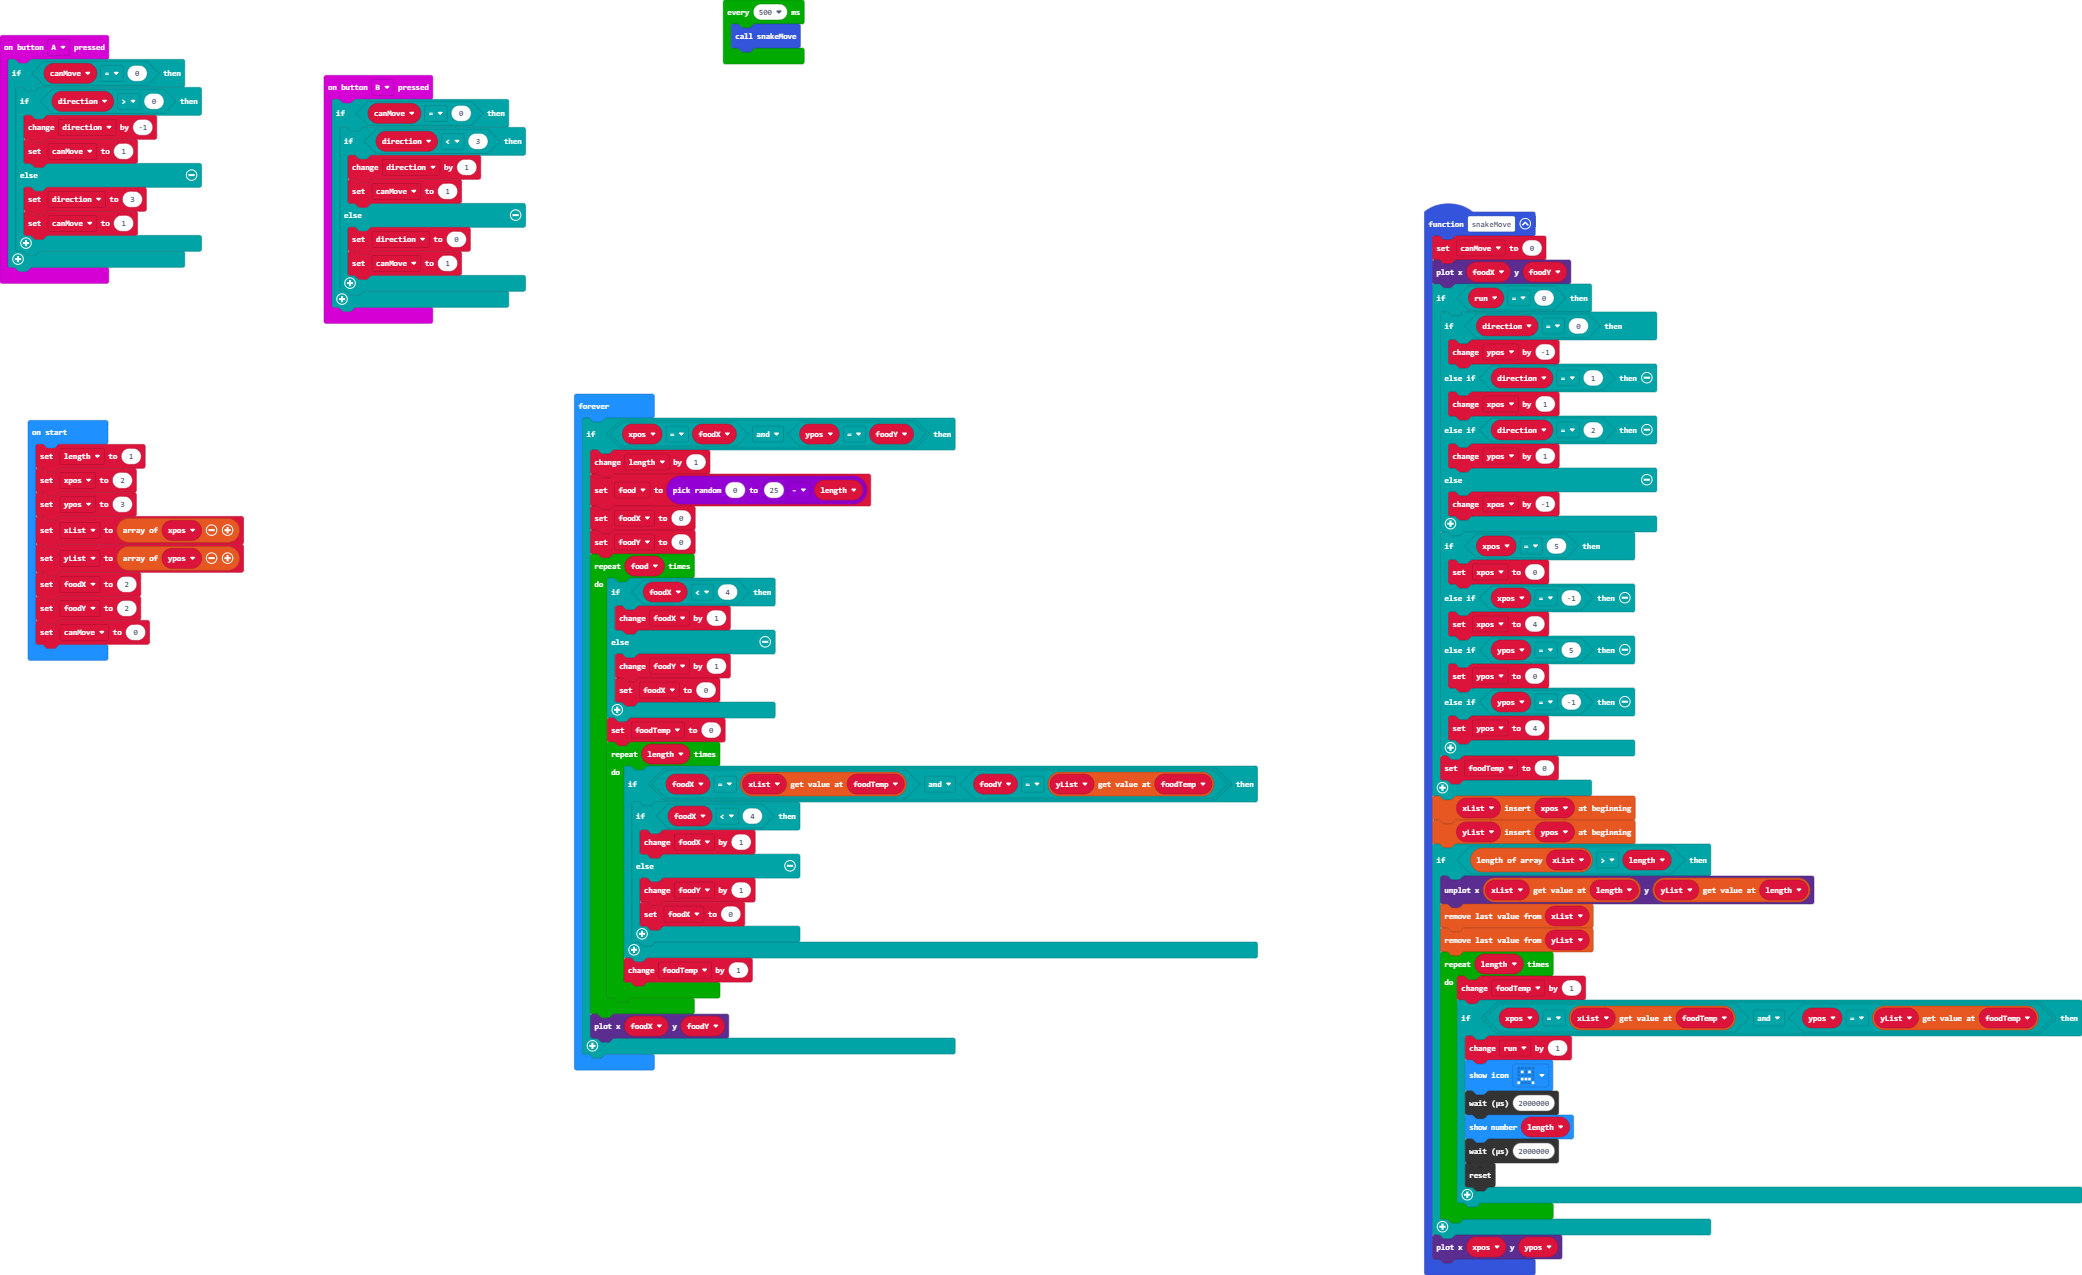
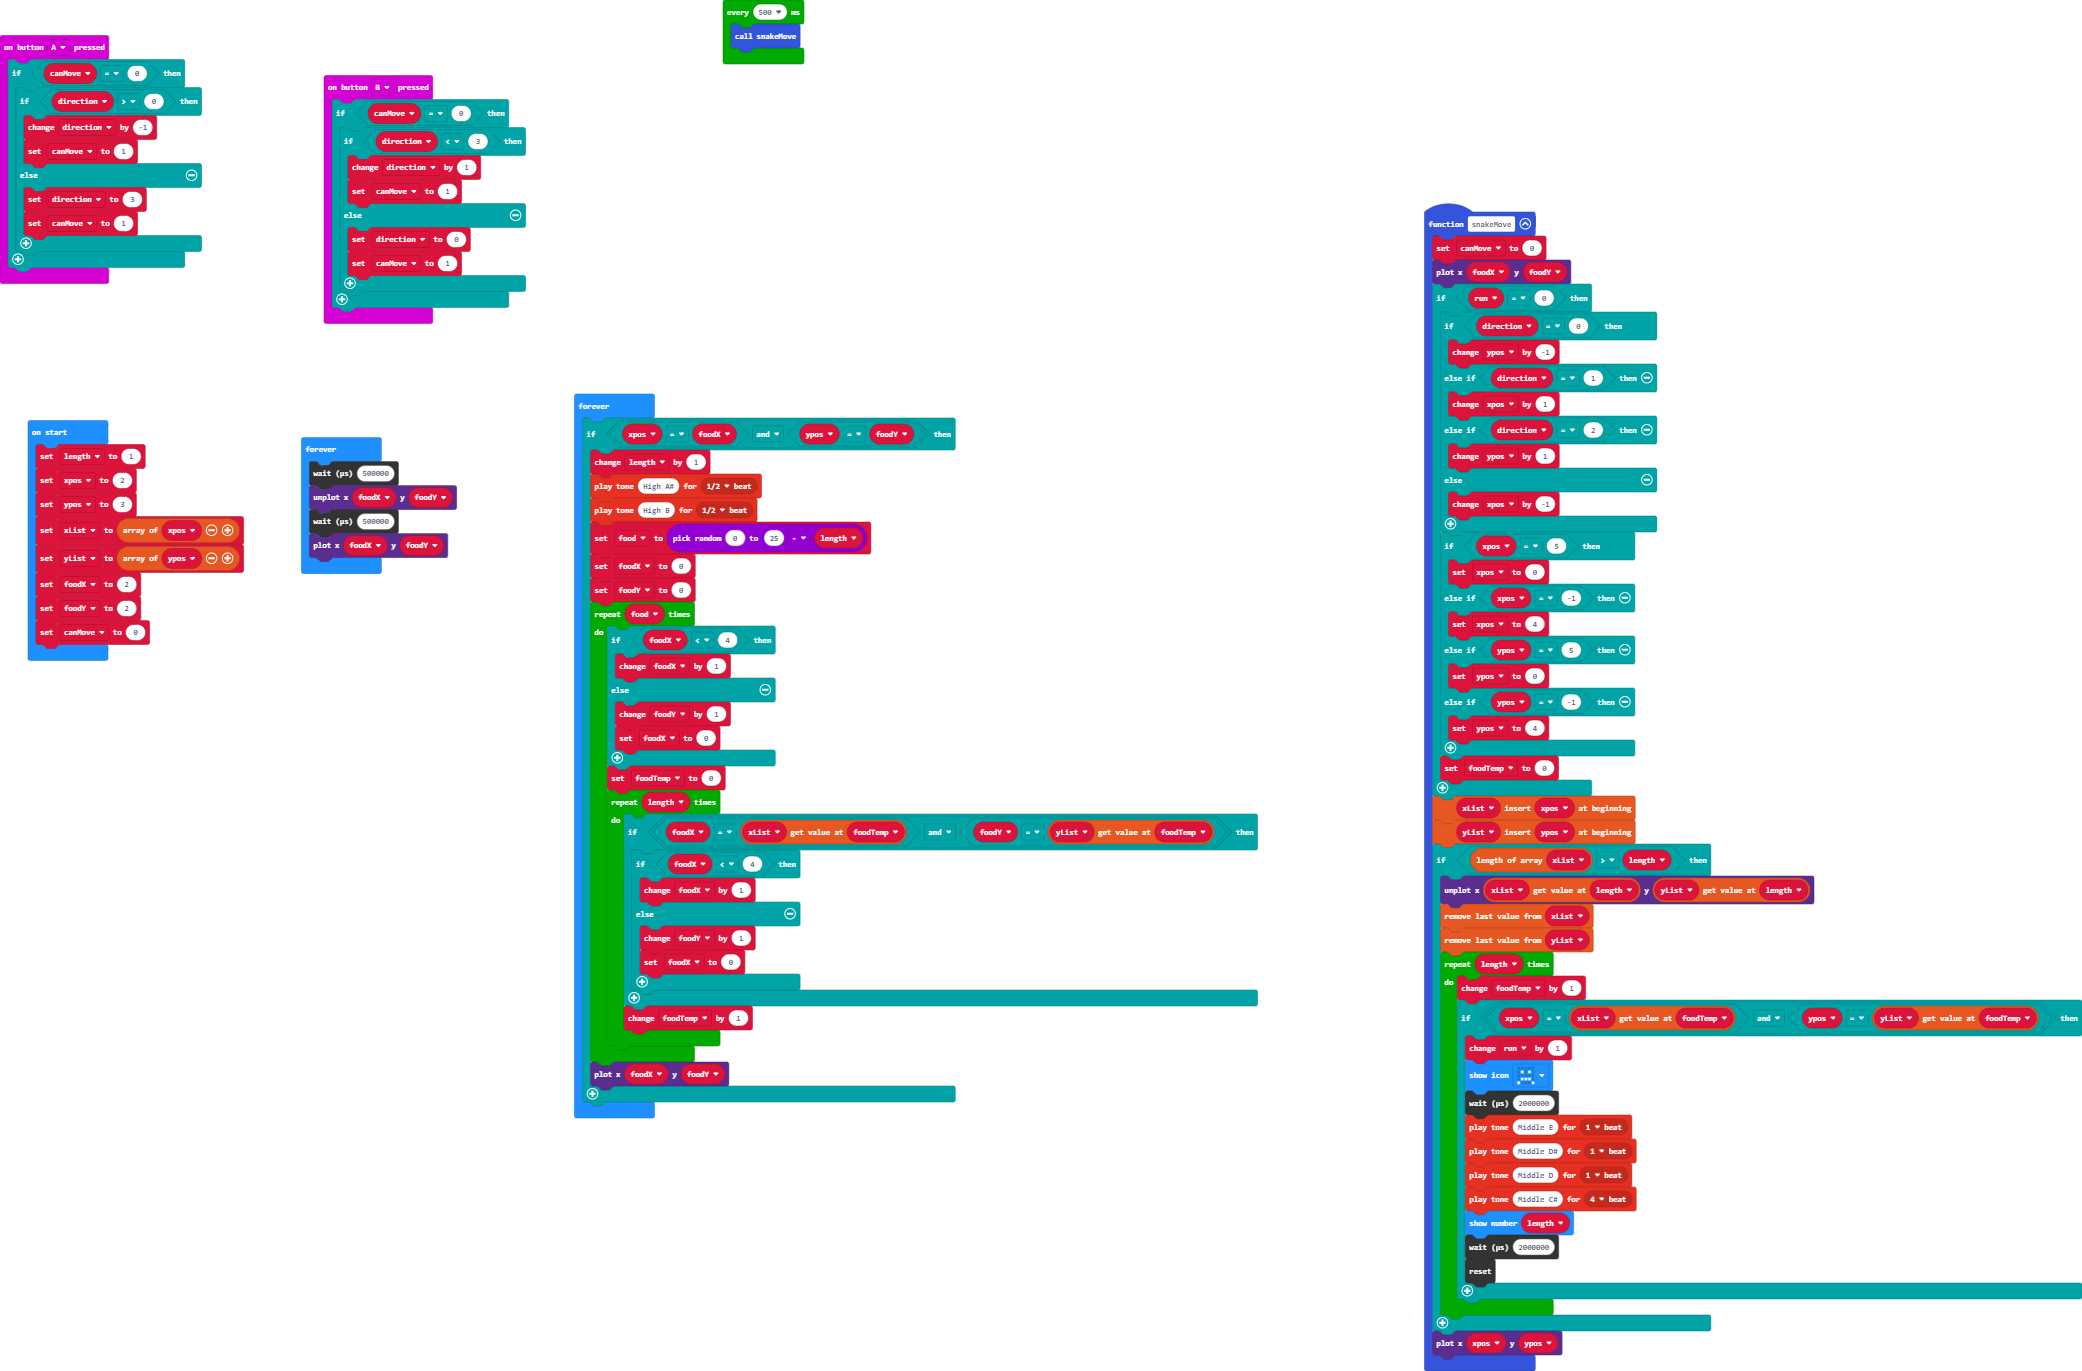
Update main.blocks, main.ts

diff --git a/main.ts b/main.ts
@@ -56,6 +56,10 @@ function snakeMove () {
                 run += 1
                 basic.showIcon(IconNames.Sad)
                 control.waitMicros(2000000)
+                music.playTone(330, music.beat(BeatFraction.Whole))
+                music.playTone(311, music.beat(BeatFraction.Whole))
+                music.playTone(294, music.beat(BeatFraction.Whole))
+                music.playTone(277, music.beat(BeatFraction.Breve))
                 basic.showNumber(length)
                 control.waitMicros(2000000)
                 control.reset()
@@ -90,6 +94,8 @@ loops.everyInterval(500, function () {
 basic.forever(function () {
     if (xpos == foodX && ypos == foodY) {
         length += 1
+        music.playTone(932, music.beat(BeatFraction.Half))
+        music.playTone(988, music.beat(BeatFraction.Half))
         food = randint(0, 25 - length)
         foodX = 0
         foodY = 0
@@ -115,4 +121,10 @@ basic.forever(function () {
         }
         led.plot(foodX, foodY)
     }
+})
+basic.forever(function () {
+    control.waitMicros(500000)
+    led.unplot(foodX, foodY)
+    control.waitMicros(500000)
+    led.plot(foodX, foodY)
 })
